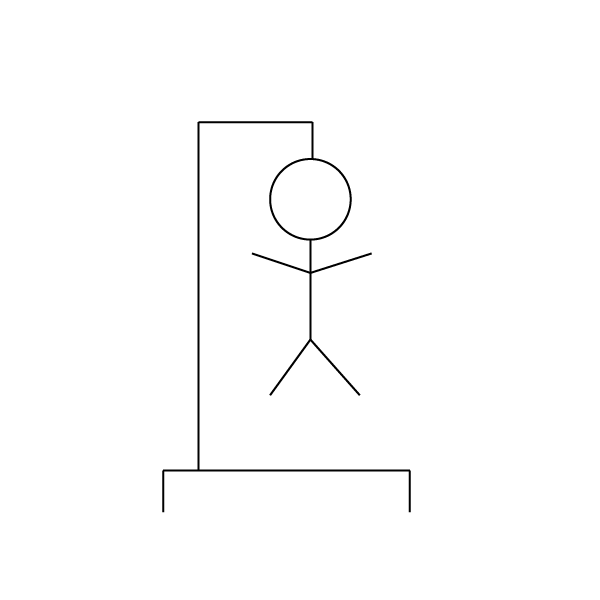
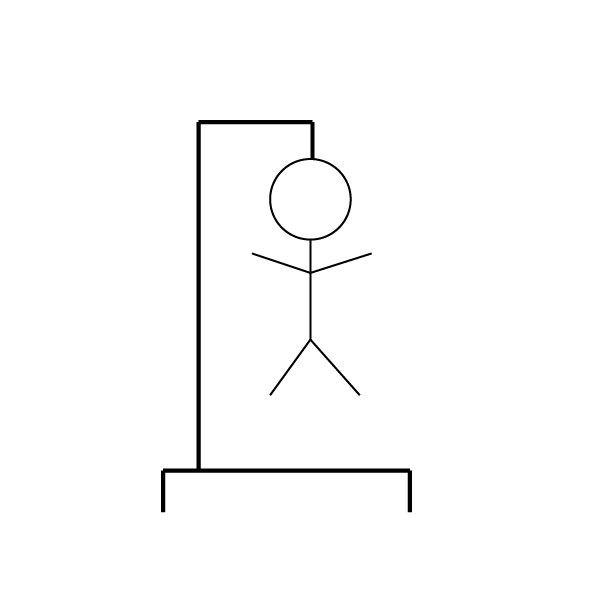
some style updates

Changed region(s): [[0.27, 0.18, 0.69, 0.87]]

diff --git a/hangman_site/hangman/templates/hangman/index.html b/hangman_site/hangman/templates/hangman/index.html
@@ -9,31 +9,44 @@
 </head>
 
 <body>
+	<div id="winloss">
+		<p> wins: {{wins}} </p>
+	    <p> losses: {{losses}} </p>
 
-	<center><img src='{{STATIC_URL}}hangman/media/{{wrong}}_wrong.png' height=300px><center>
-	<p>{{word.guessed_letters}} </p>
-    <p> {{status}} </p>
-    <p> wins: {{wins}} </p>
-    <p> losses: {{losses}} </p>
-    <p> wrong: {{wrong}}</p>
-    
-    <ul>
-		{% for w in word.current_state %}
-	        <li>{{w}}</li>
+	</div>
+	<center>
+	<p> {{status}} </p>
+	<img src='{{STATIC_URL}}hangman/media/{{wrong}}_wrong.png' height=300px></center>
 
-		{% endfor %}
-		<br><br>
-		<form action='/hangman/get_guess/' method='post'>
-			{% csrf_token %}
-			{% for field in form.visible_fields %}
-				{{ field }}
+	<div id="game_stats"><center>
+	    
+	    <ul>
+			{% for w in word.current_state %}
+		        <li>{{w}}</li>
 
 			{% endfor %}
-			<input type='submit' value='enter'>
+			<br><br>
+			<p>you have guessed: {{word.guessed_letters}} </p>
+	 	   	
+	    </ul>
+	 	   	<p> wrong: {{wrong}}</p>
+	</div>
+	<div id="inputs"><center>
+			<form action='/hangman/get_guess/' method='post'>
+				{% csrf_token %}
+				{% for field in form.visible_fields %}
+					{{ field }}
 
-			<input type="submit" value="reset wins/losses" name="reset" />
-		</form>
+				{% endfor %}
 	
-	</ul>
+		
+			<input class='button' type='submit' value='enter'>
+			<br>
+			<input class='button' type="submit" value="reset wins/losses" name="reset" />
+		</form>
+		<center>
+	</div>
+	
+	
 
 </body>

diff --git a/hangman_site/hangman/static/hangman/style.css b/hangman_site/hangman/static/hangman/style.css
@@ -1,8 +1,9 @@
 ul li {
-    color: green;
+    color: black;
     display: inline;
     font-size: 24px;
-    text-align: center;
+    
+    font-family: 'Open Sans', sans-serif;
 }
 
 ul {
@@ -13,4 +14,23 @@ ul {
 p {
 	font-size: 20px;
 	font-family: 'Open Sans', sans-serif;
+}
+
+body{
+	margin-left: 15em;
+	margin-right: 15em;
+	background-image: url('media/squared_metal_@2X.png');
+}
+
+.button {
+	 padding:5px;
+  	background-color: white;
+  	border: 1px solid #666;
+  	color:#000;
+  	text-decoration:none;
+}
+
+#winloss{
+	padding-left: .5em;
+	padding-top: .5em;
 }
